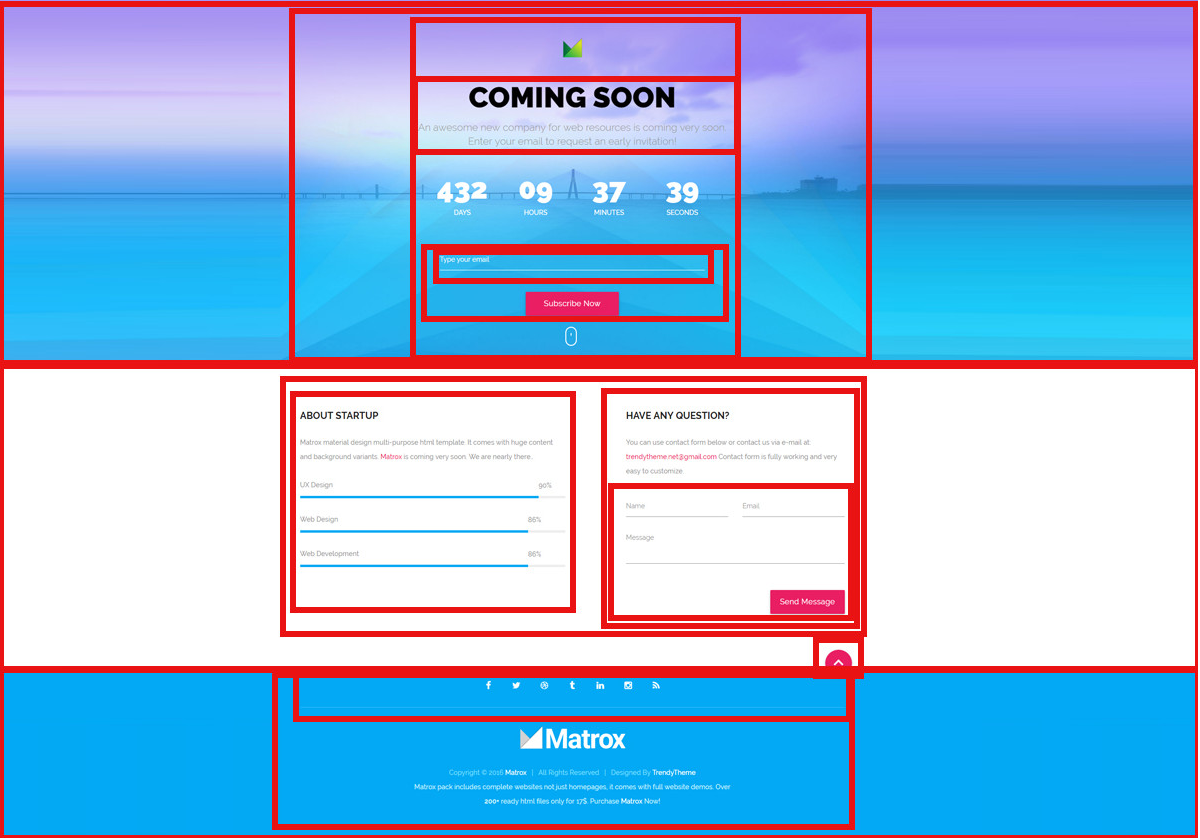
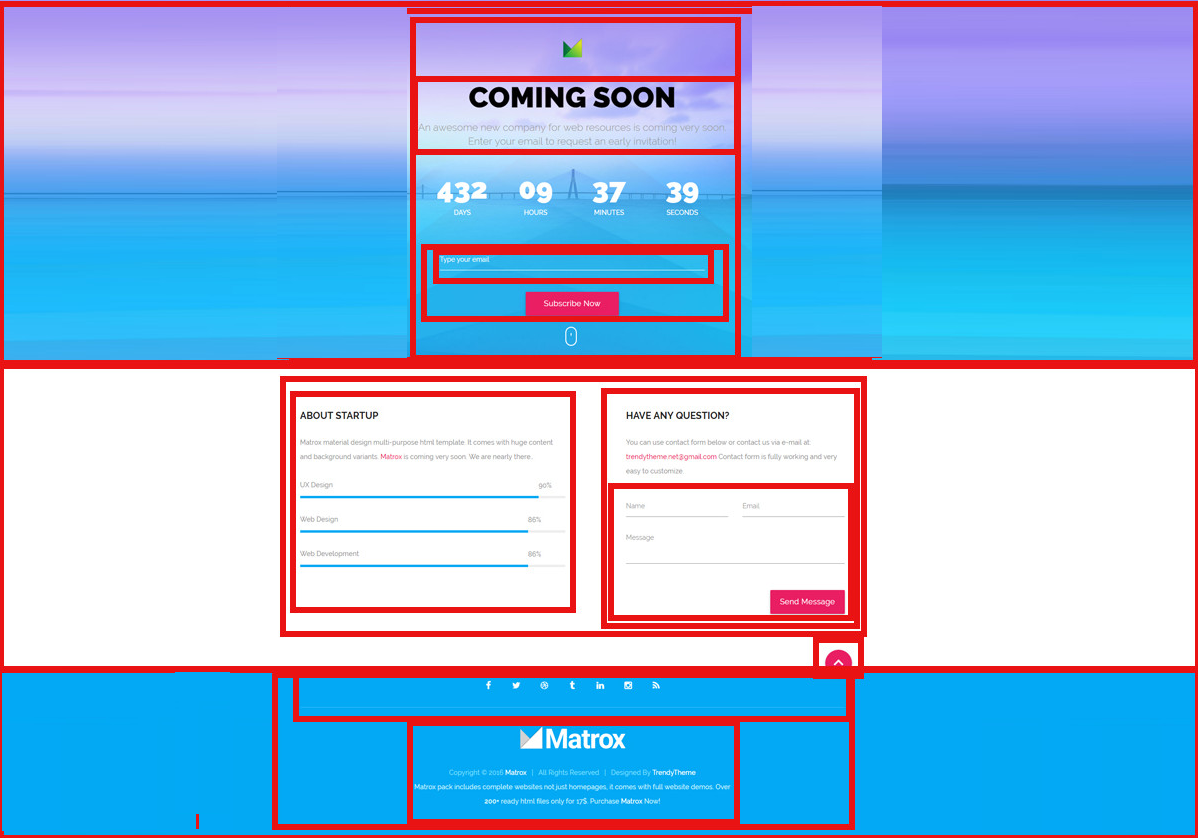
css basic

diff --git a/css/main.css b/css/main.css
@@ -1,16 +1,109 @@
+
+.bg-blue {
+    background-color: #03a9f5;
+}
+.child {
+    width: 100%;
+}
 .hero {
     width: 1000px;
-    float: left;
-    background-color: aquamarine ;
+    background-image: url('../images/background-2.jpg');
+    background-size: cover;
+    background-position: center;
+    background-attachment: fixed;
 }
+.container {
+    width: 600px;
+    height: 100vh;
+    margin-left: calc( (50% - 300px) );
+    text-align: center;
+    padding: 20px 0px;
+}
+.container img {
+    height: 105px;
+    padding: 35px;
+}
+.container h1 {
+    font-size: 50px;
+    text-transform: uppercase;
+}
+
+.p1 {
+   padding: 12px 0;
+   font-size: 18px;
+   color: #a9b3bf;
+}
+.clock {
+    padding: 50px 0px;
+    line-height: 50px;
+}
+.container input {
+width: 90%;
+line-height: 30px;
+border:none;
+border-bottom: 2px solid white;
+background: none;
+}
+::placeholder {
+    color: white; 
+  }
+
+.container button {
+   padding: 8px 20px;
+   margin: 30px 0px 0px;
+   color:white;
+   background-color: #ea1e63;
+   border: none;
+   text-transform: capitalize;
+   font-size: 15px;
+}
+
+
+.mousy {
+    
+}
+
+.section {
+    background-color: darkgreen;
+    width: 1000px;
+}
+
+.left {
+    background-color: lightgreen;
+    width:50%;
+    float:left;
+}
+
+.right {
+    background-color: darkolivegreen;
+    width: 40%;
+    float:right;
+    padding:30px 0px;
+}
+
+footer {
+    width:100%;
+}
+.footer-texts{
+    width:1000px;
+}
+.socials {
+    width: 1000px;
+}
+.matrixlg {
+ 
+}
+.links {
+    width: 600px;
+    margin-left: calc( (50% - 300px) );
+}
+
     /* .container {
      with:100%
     
     } visoms sections priskiriame*/
 
-/* .bg-blue{
-    background-color: #03a9f5;
-} kadangi pritaikome 2 sections, vienetinė, todėl galima rašyti į patį galą */ 
+
 
 /* rikiuojame klases pagal hierarchiją */
 /* bendrines klases rašyti viršuje, kad neoveridintų specifinių elementų */
@@ -20,15 +113,9 @@ width:1000px
 padding: 60px 0
 } */
 
-/* left{
-    50%
-}
 
-.right{
-    40%
-}
 
-.bghero {
+/* .bghero {
     tam, kad klasė neoveridintų
 
 width:600px 
@@ -37,75 +124,4 @@ html klasės turi būti rašomos istoriniu eilišku
 
 Nuotrauka bg naudojama visa
 
-*/
-
-
-
-.
-
-    .container img {
-
-    }
-    .container h1 {
-
-    }
-    .container p {
-
-    }
-    .clock {
-
-    }
-    .subscribe {
-
-    }
-    .subscribe input {
-
-    }
-    .subscribe button {
-
-    }
-.section {
-    background-color: darkkhaki;
-    }
-    .left {
-
-        }
-        .left h2 {
-
-        }
-        .left p {
-            
-        }
-    .right {
-        
-        }
-        .right h2 {
-
-        }
-        .right p {
-
-        }
-        .right form {
-
-            }
-            .right input {
-
-            }
-            .right button {
-                
-            }
-footer {
-
-}
-    .socials {
-
-        }
-        .socials img {
-
-        }
-        .links {
-
-        }
-        .link p {
-
-        }
+*/ 

diff --git a/index.html b/index.html
@@ -4,30 +4,32 @@
     <meta charset="UTF-8" />
     <meta name="viewport" content="width=device-width, initial-scale=1.0" />
     <title>Coming soon</title>
-    <link rel="stylesheet" href="./css/reset.css" />
-    <link rel="stylesheet" href="./css/layout.css" />
+    <link rel="stylesheet" href="./css/reset.css" /> 
+    <link rel="stylesheet" href="./css/button.css">
+    <link rel="stylesheet" href="./css/clock.css">
+    <link rel="stylesheet" href="./css/mouse.css">
+    <link rel="stylesheet" href="./css/progress-bar.css">
     <link rel="stylesheet" href="./css/form.css" />
     <link rel="stylesheet" href="./css/main.css" />
-    
     <link rel="stylesheet" href="./css/custom.css" />
+    <link rel="stylesheet" href="./css/layout.css" />
   </head>
   <body>
-    <div class="hero">
+    <div class="hero bg-blue">
       <div class="container">
         <img src="./images/icon.png" alt="icon" />
-        <h1>Coming soon</h1>
-        <p>
+        <h1 class="child">Coming soon</h1>
+        <p class="p1 child">
           Lorem ipsum dolor sit amet consectetur adipisicing elit. Eum
           praesentium, ipsam iure quis sit corrupti!
         </p>
-        <div class="clock">CLOCK</div>
-        <form class="subscribe">
+          <p class="clock">CLOCK</p>
+        <form class="child subscribe">
           <input type="email" name="email" placeholder="Type your email" />
           <button type="button">Subscribe Now</button>
-          MAUSE
+         <p class="child mousy">MAUSE</p> 
         </form>
       </div>
-    </div>
     <main>
     <div class="section">
       <div class="left">
@@ -61,10 +63,10 @@
         UP
       </div>
       </main>
-      <footer>
+      <footer class="bg-blue">
         <div class="footer-texts">
         <div class="socials">ICONS</div>
-        <img src="./images/icon2.png" alt="Matrox" />
+        <img  class=matrixlg src="./images/icon2.png" alt="Matrox" />
         <div class="links">
           <p>Copy rights 2016 <a href="#">Matrox</a></p>
           <p>All rights reserved</p>
